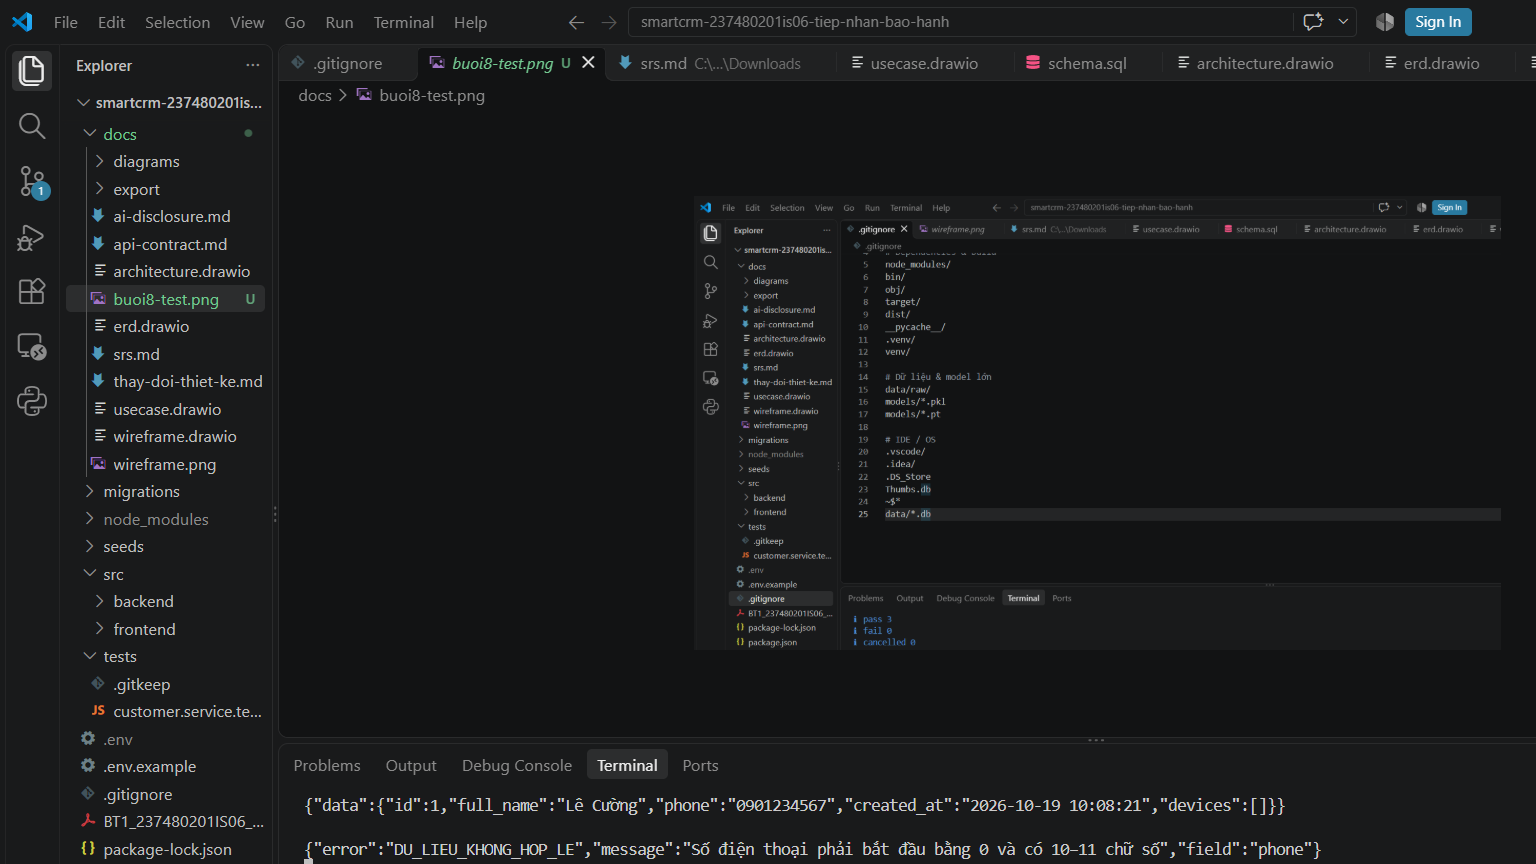
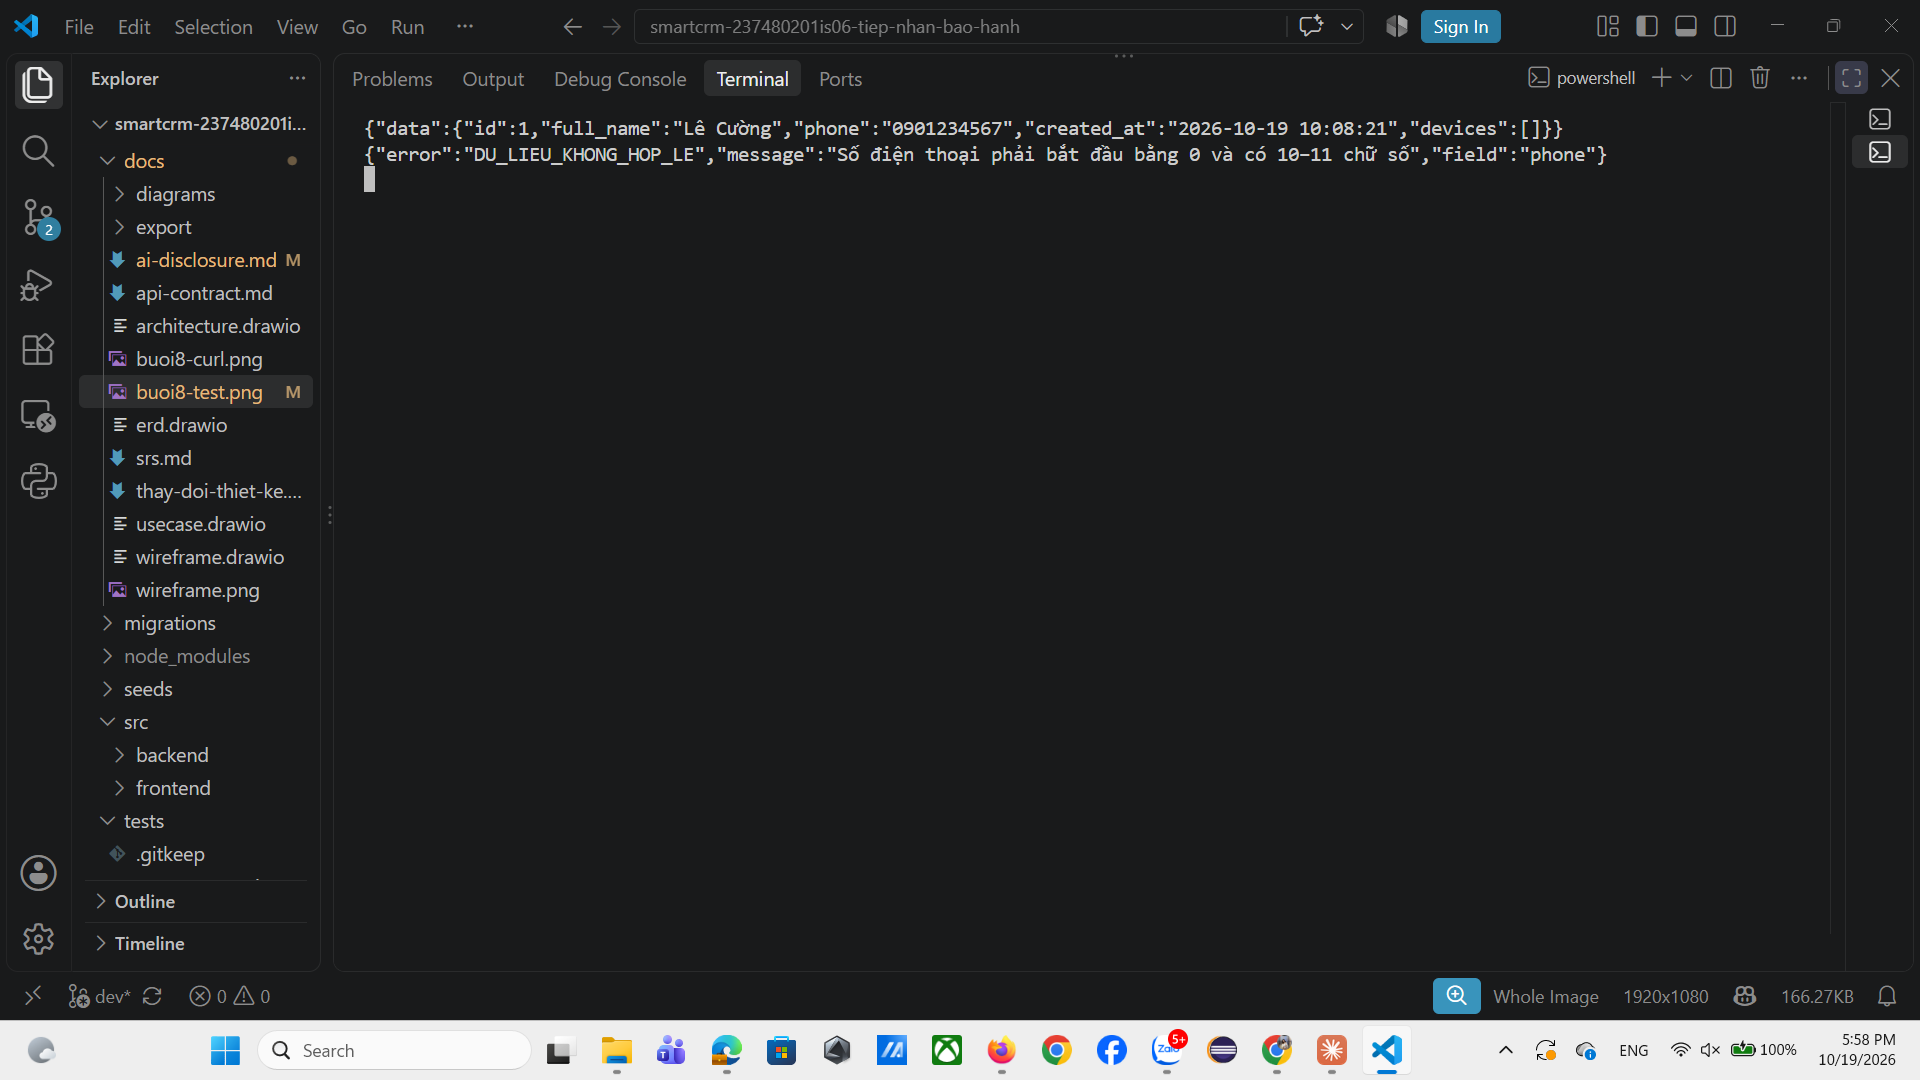
docs: cập nhật khai báo AI cho BT2 và ảnh chụp buổi 8

diff --git a/docs/ai-disclosure.md b/docs/ai-disclosure.md
@@ -10,3 +10,19 @@
 Tôi xác nhận đã đọc, hiểu và chịu trách nhiệm về toàn bộ nội dung nộp.
 
 INTHAXAY Vilaiphone – 237480201IS06 – 09/10/2026
+
+---
+
+# Bảng khai báo sử dụng công cụ AI – Bài tập 2 (cập nhật buổi 8, 19/10/2026)
+
+| Công cụ | Dùng vào việc gì | Áp dụng ở tệp / hàm nào | Em đã kiểm chứng thế nào |
+|---|---|---|---|
+| Claude (Anthropic) – trợ lý AI dạng chat | Đề xuất cách chuyển DDL PostgreSQL của BT1 sang SQLite và viết tệp migration, dữ liệu mẫu, hàm `migrate()` | `migrations/001_init.sql`, `seeds/001_demo.sql`, `src/backend/db.js`, `src/backend/migrate.js` | Chạy `npm run migrate` hai lần liên tiếp: lần hai không lỗi, số dòng các bảng giữ nguyên (customer 3, issue_category 5) – không nhân đôi dữ liệu. Đối chiếu 6 bảng và các cột với ERD BT1. Ghi lý do đổi sang SQLite ở TD-04 |
+| Claude (Anthropic) | Viết mã CRUD khách hàng tách 3 lớp và cơ chế đổi mã lỗi nghiệp vụ sang mã HTTP | `src/backend/routes/customer.routes.js`, `services/customer.service.js` (hàm `create`, `update`, `remove`, `findByPhone`), `repositories/customer.repository.js`, `validators/customer.validator.js`, `errors/AppError.js`, `app.js`, `server.js` | Gọi thử bằng curl: tra cứu SĐT 0901234567 trả đúng khách Lê Cường; gửi SĐT "123" bị từ chối 400 kèm tên trường `phone` (ảnh `docs/buoi8-curl.png`). Tìm `req.`, `res.`, `status(` trong thư mục services/ → không có (đạt S2). Đọc lại từng tệp theo luồng routes → service → repository |
+| Claude (Anthropic) | Gợi ý ba kiểm thử đầu tiên cho lớp service | `tests/customer.service.test.js` | Chạy `npm test`: 3/3 PASS (ảnh `docs/buoi8-test.png`). Kiểm thử dùng CSDL trong bộ nhớ (`:memory:`) nên không phụ thuộc dữ liệu trên máy em |
+| Claude (Anthropic) | Soạn nháp các mục TD-01 → TD-04 sau phản hồi BT1 | `docs/thay-doi-thiet-ke.md`, `docs/srs.md` (chuyển dòng GWT-20) | Đối chiếu từng mục với phản hồi của giảng viên trong bảng điểm BT1; kiểm GWT-01 → GWT-20 đã theo thứ tự mã |
+| — không dùng — | Cài Node.js, chạy lệnh, chụp ảnh kết quả, commit và push | Lịch sử commit nhánh `dev` | Không áp dụng |
+
+Tôi xác nhận đã đọc, hiểu và chịu trách nhiệm về toàn bộ mã nguồn nộp ở Bài tập 2.
+
+INTHAXAY Vilaiphone – 237480201IS06 – 19/10/2026
